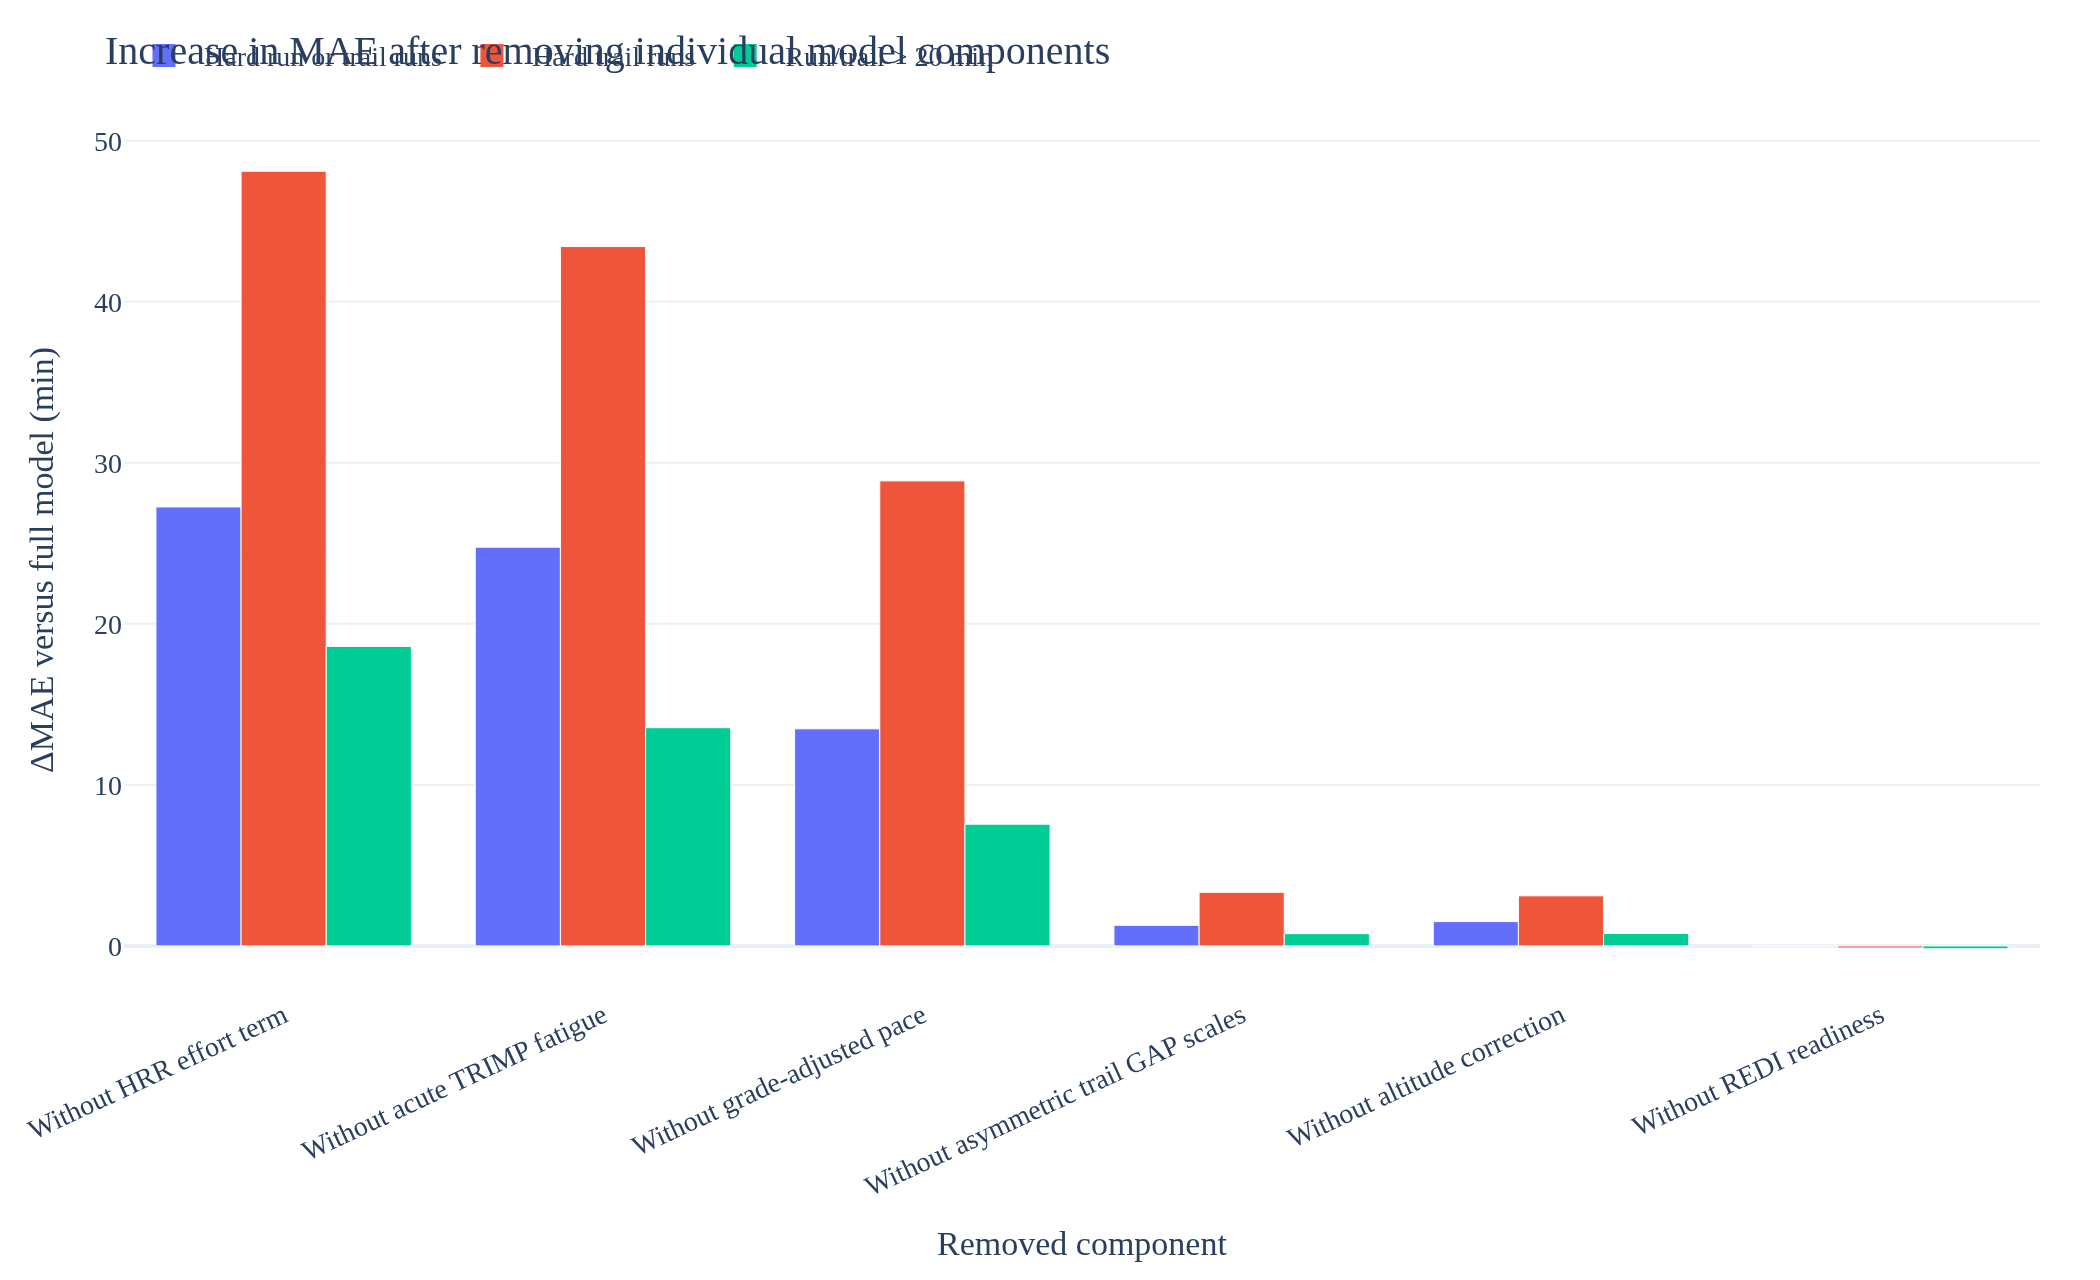
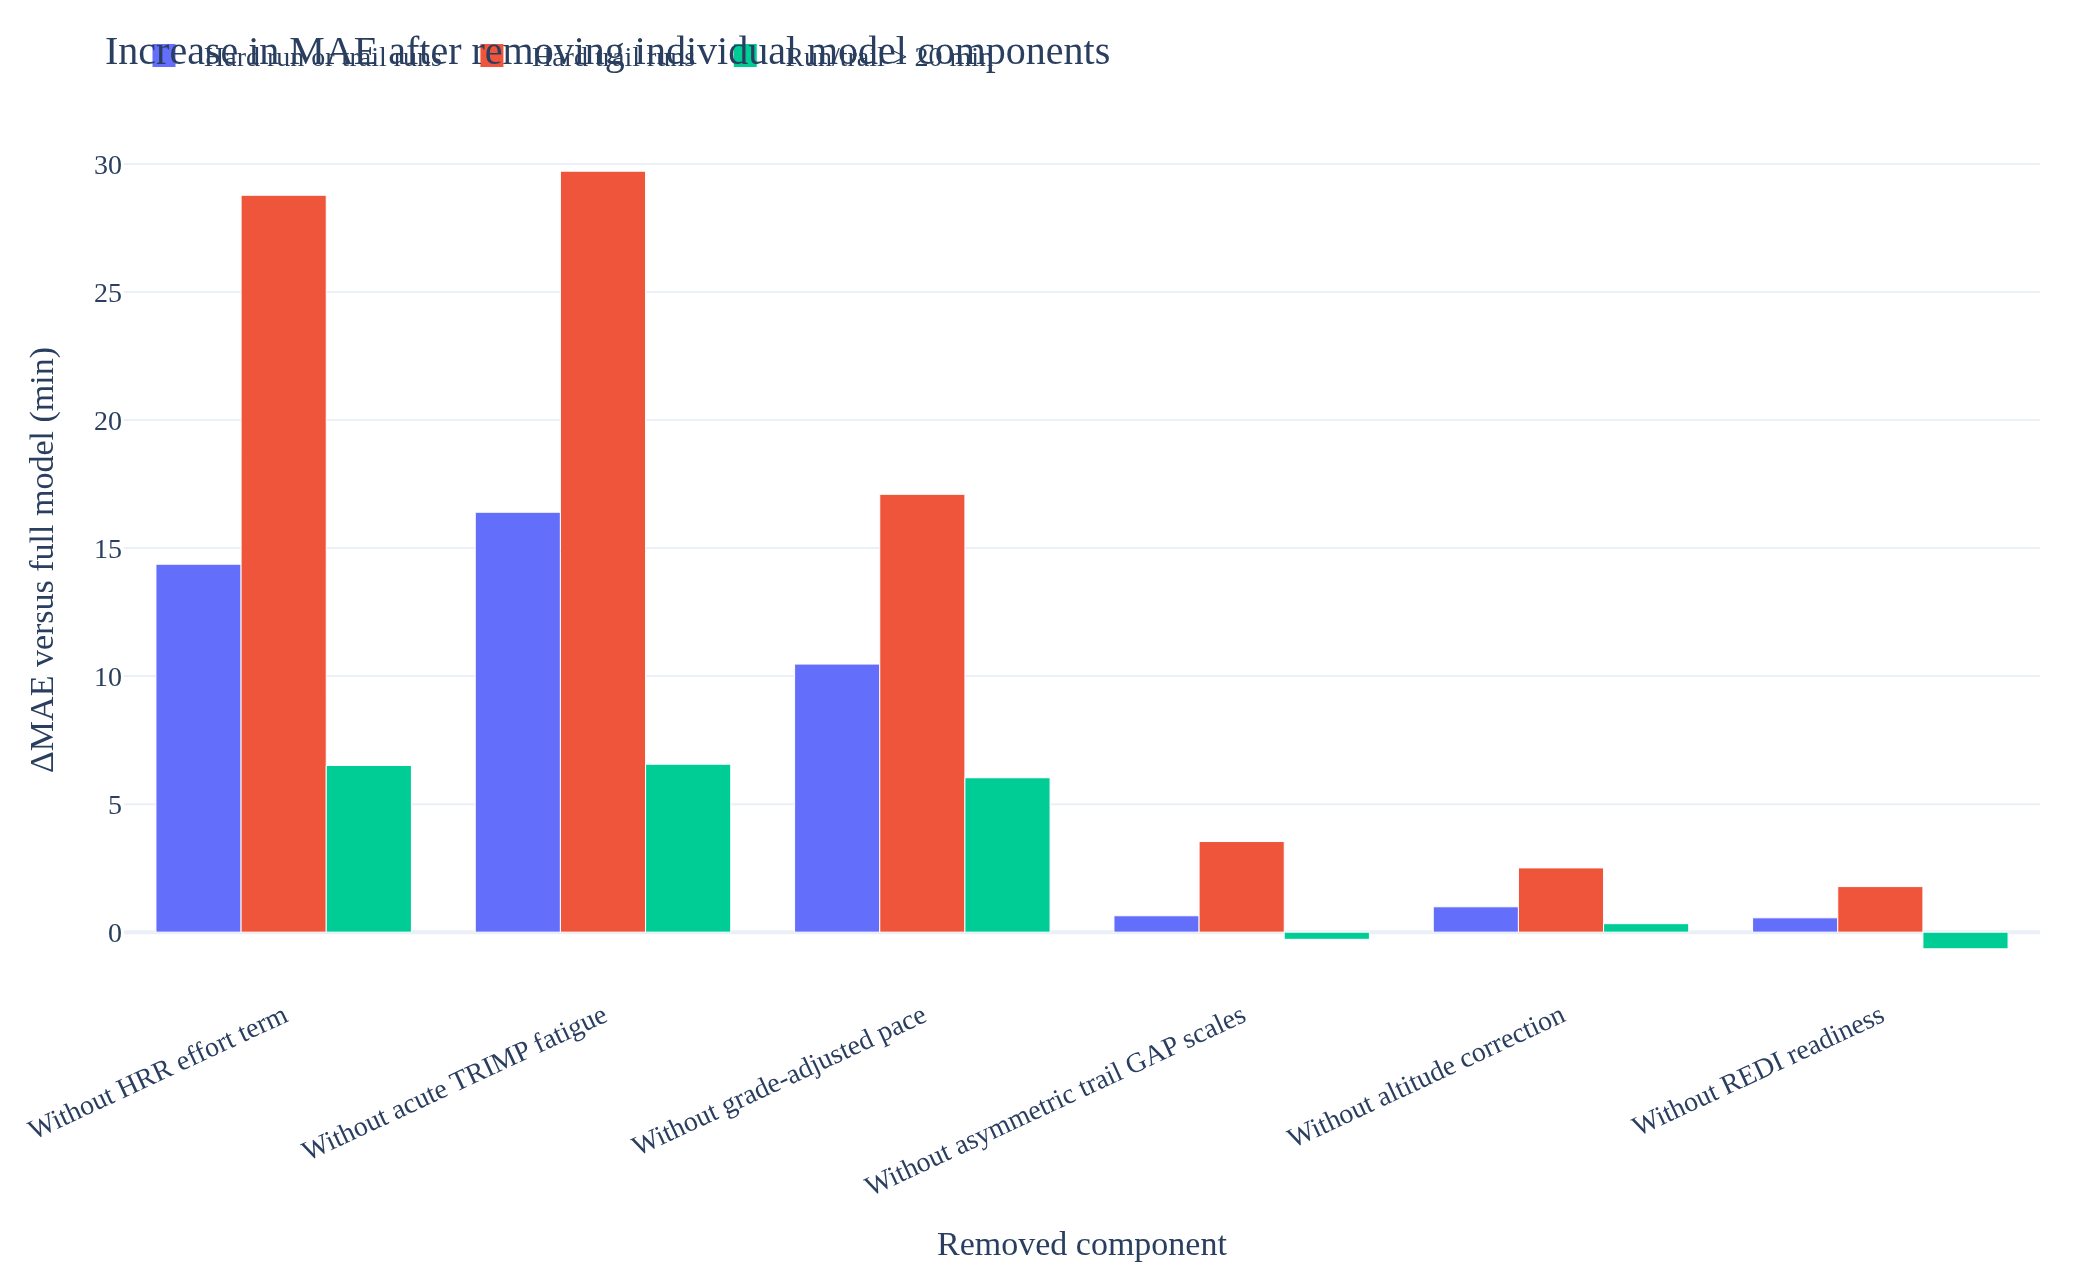
Refresh ablation results under reoptimize LOO protocol
Re-run component ablation with per-variant (α, κ) re-fitting, stabilize LOO
activity-cap seeds with SHA-256, and regenerate Table 3 / figure plus paper
numbers (HRR +14.4 min, TRIMP +16.4 min on hard run/trail).

diff --git a/services/trail_digital_twin_pipeline.py b/services/trail_digital_twin_pipeline.py
@@ -7,6 +7,7 @@ Configurable trail digital-twin extension pipeline.
 from __future__ import annotations
 
 import html
+import hashlib
 import json
 import logging
 import math
@@ -1199,8 +1200,8 @@ def _run_paper_stage_models_for_objective(task: tuple[object, ...]) -> dict[str,
     loo_cap = int(config.get("cohorts", {}).get("loo_activity_cap", 0) or 0)
     if run_loo and loo_cap > 0 and len(loo_ids) > loo_cap:
         seed = int(config.get("cohorts", {}).get("loo_activity_cap_seed", 20260721))
-        # Stable per-cohort seed so caps are reproducible across runs.
-        cohort_seed = seed + (abs(hash(cohort_name)) % 10_000)
+        # Stable per-cohort seed so caps are reproducible across runs/processes.
+        cohort_seed = seed + _stable_cohort_seed_offset(cohort_name)
         rng = np.random.default_rng(cohort_seed)
         loo_ids = sorted(rng.choice(np.array(loo_ids, dtype=object), size=loo_cap, replace=False).tolist())
         logger.warning(
@@ -1638,13 +1639,19 @@ def run_paper_stage_models(
     return tables, stage3_best, stage3_segments
 
 
+def _stable_cohort_seed_offset(cohort_name: str) -> int:
+    """Stable per-cohort offset (avoid Python's randomized ``hash()``)."""
+    digest = hashlib.sha256(str(cohort_name).encode("utf-8")).hexdigest()
+    return int(digest[:8], 16) % 10_000
+
+
 def _select_loo_activity_ids(activity_ids: Sequence[str], cohort_name: str, config: Mapping[str, Any]) -> list[str]:
     """Apply the same LOO activity cap used by Stage 0–3 paper models."""
     loo_ids = [str(activity_id) for activity_id in activity_ids]
     loo_cap = int(config.get("cohorts", {}).get("loo_activity_cap", 0) or 0)
     if loo_cap > 0 and len(loo_ids) > loo_cap:
         seed = int(config.get("cohorts", {}).get("loo_activity_cap_seed", 20260721))
-        cohort_seed = seed + (abs(hash(cohort_name)) % 10_000)
+        cohort_seed = seed + _stable_cohort_seed_offset(cohort_name)
         rng = np.random.default_rng(cohort_seed)
         loo_ids = sorted(rng.choice(np.array(loo_ids, dtype=object), size=loo_cap, replace=False).tolist())
         logger.warning(

diff --git a/tests/test_trail_digital_twin_pipeline.py b/tests/test_trail_digital_twin_pipeline.py
@@ -488,6 +488,17 @@ def test_segment_type_metrics_group_stage3_errors_by_terrain() -> None:
     assert descent["maeMin"] == pytest.approx(1.0)
 
 
+def test_loo_activity_cap_seed_is_stable_across_processes() -> None:
+    config = {"cohorts": {"loo_activity_cap": 2, "loo_activity_cap_seed": 20260721}}
+    ids = [f"a{i}" for i in range(10)]
+    first = pipeline._select_loo_activity_ids(ids, "hardRunOrTrailRun", config)
+    second = pipeline._select_loo_activity_ids(ids, "hardRunOrTrailRun", config)
+    assert first == second
+    assert len(first) == 2
+    other = pipeline._select_loo_activity_ids(ids, "hardTrailRun", config)
+    assert other != first
+
+
 def test_config_rejects_invalid_ablation_protocol() -> None:
     raw = _valid_minimal_config()
     raw["fitting"] = {"ablation_protocol": "partial"}

diff --git a/docs/science/paper/tables/table03_component_ablation.md b/docs/science/paper/tables/table03_component_ablation.md
@@ -1,41 +1,41 @@
-**Table 3. Component ablation of the full Stage-3 model (in-sample activity objective).**
+**Table 3. Component ablation with re-optimized (α, κ) per removal (LOO, activity objective).**
 
-| Cohort | Variant | MAE (min) | MAPE (%) | Bias (min) | R² | ΔMAE vs full (min) |
-| --- | --- | --- | --- | --- | --- | --- |
-| Hard trail runs | Full model (M3 + trail GAP scales) | 17.39 | 9.65 | -9.8 | 0.969 | 0.0 |
-| Hard trail runs | Without grade-adjusted pace | 46.27 | 23.04 | -44.83 | 0.768 | 28.88 |
-| Hard trail runs | Without altitude correction | 20.5 | 10.41 | -13.88 | 0.953 | 3.11 |
-| Hard trail runs | Without REDI readiness | 17.25 | 9.88 | -5.85 | 0.968 | -0.13 |
-| Hard trail runs | Without HRR effort term | 65.5 | 29.77 | -65.44 | 0.568 | 48.11 |
-| Hard trail runs | Without acute TRIMP fatigue | 60.82 | 28.7 | -60.54 | 0.668 | 43.43 |
-| Hard trail runs | Without asymmetric trail GAP scales | 20.72 | 10.64 | -15.05 | 0.954 | 3.33 |
-| Hard run or trail runs | Full model (M3 + trail GAP scales) | 9.62 | 7.31 | -5.17 | 0.975 | 0.0 |
-| Hard run or trail runs | Without grade-adjusted pace | 23.1 | 14.22 | -21.41 | 0.823 | 13.48 |
-| Hard run or trail runs | Without altitude correction | 11.13 | 7.71 | -6.97 | 0.962 | 1.51 |
-| Hard run or trail runs | Without REDI readiness | 9.66 | 7.37 | -3.11 | 0.974 | 0.04 |
-| Hard run or trail runs | Without HRR effort term | 36.88 | 24.88 | -36.86 | 0.666 | 27.26 |
-| Hard run or trail runs | Without acute TRIMP fatigue | 34.38 | 23.33 | -34.18 | 0.745 | 24.76 |
-| Hard run or trail runs | Without asymmetric trail GAP scales | 10.9 | 7.83 | -7.33 | 0.964 | 1.28 |
-| Run/trail > 20 min | Full model (M3 + trail GAP scales) | 6.55 | 7.71 | -3.23 | 0.977 | 0.0 |
-| Run/trail > 20 min | Without grade-adjusted pace | 14.11 | 13.09 | -12.35 | 0.848 | 7.56 |
-| Run/trail > 20 min | Without altitude correction | 7.32 | 7.94 | -4.17 | 0.966 | 0.77 |
-| Run/trail > 20 min | Without REDI readiness | 6.37 | 7.29 | -2.23 | 0.977 | -0.18 |
-| Run/trail > 20 min | Without HRR effort term | 25.15 | 28.45 | -25.14 | 0.706 | 18.6 |
-| Run/trail > 20 min | Without acute TRIMP fatigue | 20.1 | 18.56 | -19.87 | 0.782 | 13.55 |
-| Run/trail > 20 min | Without asymmetric trail GAP scales | 7.31 | 8.28 | -4.49 | 0.967 | 0.76 |
-| Top-10 hard trail by HRR | Full model (M3 + trail GAP scales) | 3.82 | 4.75 | -0.6 | 0.993 | 0.0 |
-| Top-10 hard trail by HRR | Without grade-adjusted pace | 20.23 | 26.39 | -20.23 | 0.851 | 16.41 |
-| Top-10 hard trail by HRR | Without altitude correction | 3.99 | 5.34 | -1.48 | 0.992 | 0.17 |
-| Top-10 hard trail by HRR | Without REDI readiness | 4.79 | 5.8 | 1.52 | 0.989 | 0.97 |
-| Top-10 hard trail by HRR | Without HRR effort term | 12.84 | 12.72 | -12.84 | 0.932 | 9.03 |
-| Top-10 hard trail by HRR | Without acute TRIMP fatigue | 20.96 | 19.39 | -20.96 | 0.807 | 17.15 |
-| Top-10 hard trail by HRR | Without asymmetric trail GAP scales | 4.9 | 6.81 | -1.9 | 0.99 | 1.09 |
-| Selected race dates | Full model (M3 + trail GAP scales) | 9.11 | 5.44 | 6.83 | 0.995 | 0.0 |
-| Selected race dates | Without grade-adjusted pace | 30.04 | 13.62 | -28.75 | 0.86 | 20.93 |
-| Selected race dates | Without altitude correction | 10.02 | 5.61 | 4.01 | 0.994 | 0.91 |
-| Selected race dates | Without REDI readiness | 14.64 | 8.09 | 14.64 | 0.984 | 5.52 |
-| Selected race dates | Without HRR effort term | 32.21 | 12.43 | -31.95 | 0.859 | 23.1 |
-| Selected race dates | Without acute TRIMP fatigue | 53.04 | 22.96 | -53.04 | 0.74 | 43.93 |
-| Selected race dates | Without asymmetric trail GAP scales | 8.29 | 5.32 | 4.41 | 0.995 | -0.82 |
+| Cohort | Variant | MAE (min) | MAPE (%) | Bias (min) | R² | ΔMAE vs full (min) | Protocol |
+| --- | --- | --- | --- | --- | --- | --- | --- |
+| Hard trail runs | Full model (M3 + trail GAP scales) | 17.39 | 9.65 | -9.8 | 0.969 | 0.0 | reoptimize_loo |
+| Hard trail runs | Without grade-adjusted pace | 34.49 | 16.67 | -18.46 | 0.865 | 17.1 | reoptimize_loo |
+| Hard trail runs | Without altitude correction | 19.9 | 10.43 | -12.03 | 0.958 | 2.51 | reoptimize_loo |
+| Hard trail runs | Without REDI readiness | 19.17 | 10.76 | -14.06 | 0.956 | 1.78 | reoptimize_loo |
+| Hard trail runs | Without HRR effort term | 46.17 | 17.1 | -40.05 | 0.725 | 28.78 | reoptimize_loo |
+| Hard trail runs | Without acute TRIMP fatigue | 47.11 | 20.89 | -46.35 | 0.776 | 29.72 | reoptimize_loo |
+| Hard trail runs | Without asymmetric trail GAP scales | 20.93 | 11.11 | -12.52 | 0.958 | 3.54 | reoptimize_loo |
+| Hard run or trail runs | Full model (M3 + trail GAP scales) | 8.24 | 7.3 | -4.18 | 0.986 | 0.0 | reoptimize_loo |
+| Hard run or trail runs | Without grade-adjusted pace | 18.71 | 13.5 | -8.5 | 0.901 | 10.47 | reoptimize_loo |
+| Hard run or trail runs | Without altitude correction | 9.23 | 7.81 | -0.26 | 0.984 | 0.99 | reoptimize_loo |
+| Hard run or trail runs | Without REDI readiness | 8.8 | 7.51 | -2.57 | 0.983 | 0.56 | reoptimize_loo |
+| Hard run or trail runs | Without HRR effort term | 22.61 | 13.14 | -19.23 | 0.844 | 14.37 | reoptimize_loo |
+| Hard run or trail runs | Without acute TRIMP fatigue | 24.64 | 15.37 | -23.61 | 0.835 | 16.4 | reoptimize_loo |
+| Hard run or trail runs | Without asymmetric trail GAP scales | 8.87 | 7.89 | -0.7 | 0.984 | 0.64 | reoptimize_loo |
+| Run/trail > 20 min | Full model (M3 + trail GAP scales) | 5.97 | 8.18 | -3.14 | 0.981 | 0.0 | reoptimize_loo |
+| Run/trail > 20 min | Without grade-adjusted pace | 12.0 | 14.33 | -3.97 | 0.901 | 6.03 | reoptimize_loo |
+| Run/trail > 20 min | Without altitude correction | 6.29 | 8.3 | -3.54 | 0.976 | 0.33 | reoptimize_loo |
+| Run/trail > 20 min | Without REDI readiness | 5.32 | 7.76 | -1.75 | 0.981 | -0.65 | reoptimize_loo |
+| Run/trail > 20 min | Without HRR effort term | 12.48 | 15.34 | -10.06 | 0.892 | 6.51 | reoptimize_loo |
+| Run/trail > 20 min | Without acute TRIMP fatigue | 12.53 | 11.84 | -11.12 | 0.867 | 6.56 | reoptimize_loo |
+| Run/trail > 20 min | Without asymmetric trail GAP scales | 5.69 | 8.4 | -2.97 | 0.986 | -0.28 | reoptimize_loo |
+| Top-10 hard trail by HRR | Full model (M3 + trail GAP scales) | 3.82 | 4.75 | -0.6 | 0.993 | 0.0 | reoptimize_in_sample |
+| Top-10 hard trail by HRR | Without grade-adjusted pace | 11.55 | 19.1 | -8.86 | 0.932 | 7.74 | reoptimize_in_sample |
+| Top-10 hard trail by HRR | Without altitude correction | 3.99 | 5.34 | -1.48 | 0.992 | 0.17 | reoptimize_in_sample |
+| Top-10 hard trail by HRR | Without REDI readiness | 5.11 | 6.86 | -2.48 | 0.99 | 1.29 | reoptimize_in_sample |
+| Top-10 hard trail by HRR | Without HRR effort term | 4.43 | 6.77 | -1.01 | 0.992 | 0.61 | reoptimize_in_sample |
+| Top-10 hard trail by HRR | Without acute TRIMP fatigue | 20.96 | 19.39 | -20.96 | 0.807 | 17.15 | reoptimize_in_sample |
+| Top-10 hard trail by HRR | Without asymmetric trail GAP scales | 4.9 | 6.81 | -1.9 | 0.99 | 1.09 | reoptimize_in_sample |
+| Selected race dates | Full model (M3 + trail GAP scales) | 11.84 | 5.93 | 4.1 | 0.987 | 0.0 | reoptimize_loo |
+| Selected race dates | Without grade-adjusted pace | 29.74 | 14.88 | -11.73 | 0.89 | 17.9 | reoptimize_loo |
+| Selected race dates | Without altitude correction | 12.7 | 6.09 | 1.33 | 0.984 | 0.85 | reoptimize_loo |
+| Selected race dates | Without REDI readiness | 9.2 | 4.3 | 2.86 | 0.992 | -2.64 | reoptimize_loo |
+| Selected race dates | Without HRR effort term | 26.48 | 10.81 | -10.74 | 0.91 | 14.64 | reoptimize_loo |
+| Selected race dates | Without acute TRIMP fatigue | 45.49 | 18.43 | -45.49 | 0.792 | 33.65 | reoptimize_loo |
+| Selected race dates | Without asymmetric trail GAP scales | 10.99 | 5.81 | 1.71 | 0.986 | -0.85 | reoptimize_loo |
 
-*Positive ΔMAE indicates degraded accuracy after removing the component. Trail GAP scales refer to asymmetric soft-ramped climb/descent corrections.*
+*Positive ΔMAE indicates degraded accuracy after removing the component and re-fitting. Protocol column reports reoptimize_loo (preferred) vs legacy frozen. Trail GAP scales refer to asymmetric soft-ramped climb/descent corrections.*

diff --git a/docs/science/trail_digital_twin_hr_performance_paper_draft.md b/docs/science/trail_digital_twin_hr_performance_paper_draft.md
@@ -202,7 +202,7 @@ Bootstrap percentile intervals on M3 LOO folds (Table 4) place hard run/trail MA
 
 For leave-one-component ablations (Table 3 / `table03_component_ablation`; Fig. `fig_component_ablation_delta_mae.png`), we **re-optimize** (α, κ) after each removal under the same grid and LOO protocol as Stage 3, rather than freezing parameters from the full model. This estimates *recoverable* contribution once remaining parameters adapt—the recommended ablation design when fitting is cheap relative to model complexity—whereas a frozen-parameter removal would measure only inference-time dependence of one fitted solution.
 
-On hard run/trail activities, removing the HRR effort term and re-fitting still increased LOO MAE substantially, as did removing acute TRIMP, confirming that both channels remain necessary after compensation. Removing GAP entirely was also highly detrimental. Asymmetric trail GAP soft-ramp scales contributed a smaller but consistent improvement when removed and re-optimized, while altitude and REDI readiness had modest effects in this athlete.
+On hard run/trail activities, removing the HRR effort term and re-fitting increased LOO MAE by +14.4 min; removing acute TRIMP increased MAE by +16.4 min. Both channels therefore remain necessary after compensation (frozen-parameter ablations had inflated these deltas to about +25–27 min). Removing GAP entirely remained highly detrimental (+10.5 min). Asymmetric trail GAP soft-ramp scales contributed a smaller improvement when removed and re-optimized (+0.6 min), while altitude and REDI readiness had modest effects in this athlete.
 
 ### 4.4 Terrain-resolved residuals and trail GAP scales
 

diff --git a/docs/science/paper/tables/README.md b/docs/science/paper/tables/README.md
@@ -4,7 +4,7 @@ Publication-formatted extracts from the section-7 digital-twin experiments.
 
 - [Table 1. Descriptive statistics of evaluation cohorts.](table01_cohort_descriptives.md) ([CSV](table01_cohort_descriptives.csv))
 - [Table 2. Leave-one-out errors for the baseline physics twin and successive additions.](table02_incremental_model_loo.md) ([CSV](table02_incremental_model_loo.csv))
-- [Table 3. Component ablation of the full Stage-3 model (in-sample activity objective).](table03_component_ablation.md) ([CSV](table03_component_ablation.csv))
+- [Table 3. Component ablation with re-optimized (α, κ) per removal (LOO, activity objective).](table03_component_ablation.md) ([CSV](table03_component_ablation.csv))
 - [Table 4. Bootstrap uncertainty for Stage-3 LOO MAE/bias and fold-wise (α, κ).](table04_bootstrap_uncertainty.md) ([CSV](table04_bootstrap_uncertainty.csv))
 - [Table 5. Prospective constant-HRR race predictions with finish-time uncertainty bands.](table05_prospective_predictions.md) ([CSV](table05_prospective_predictions.csv))
 - [Table 6. Model-implied speed–HRR response on a synthetic 1 km flat segment.](table06_speed_vs_hrr_flat.md) ([CSV](table06_speed_vs_hrr_flat.csv))
